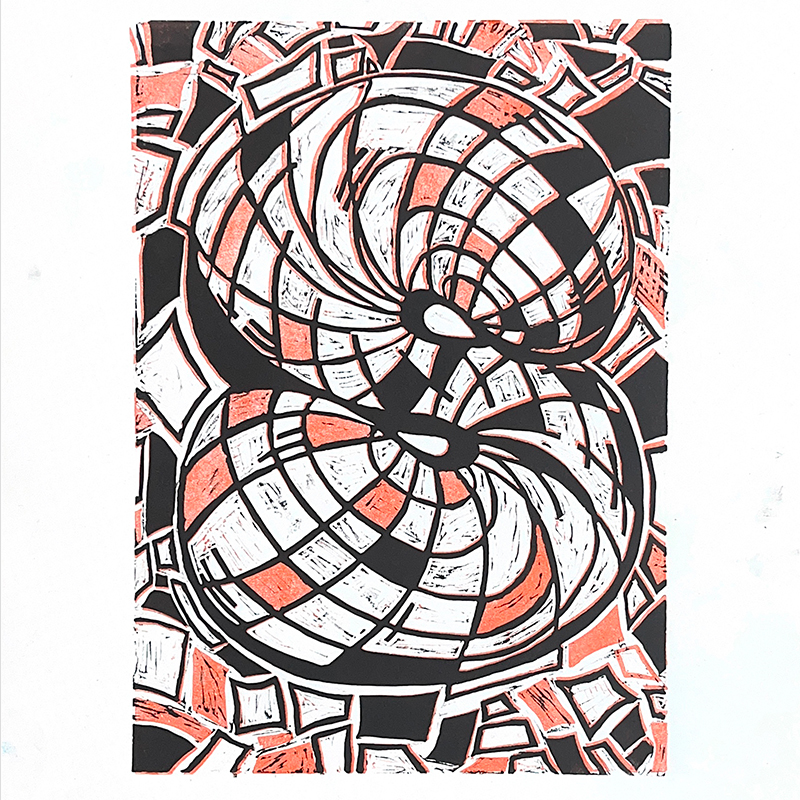
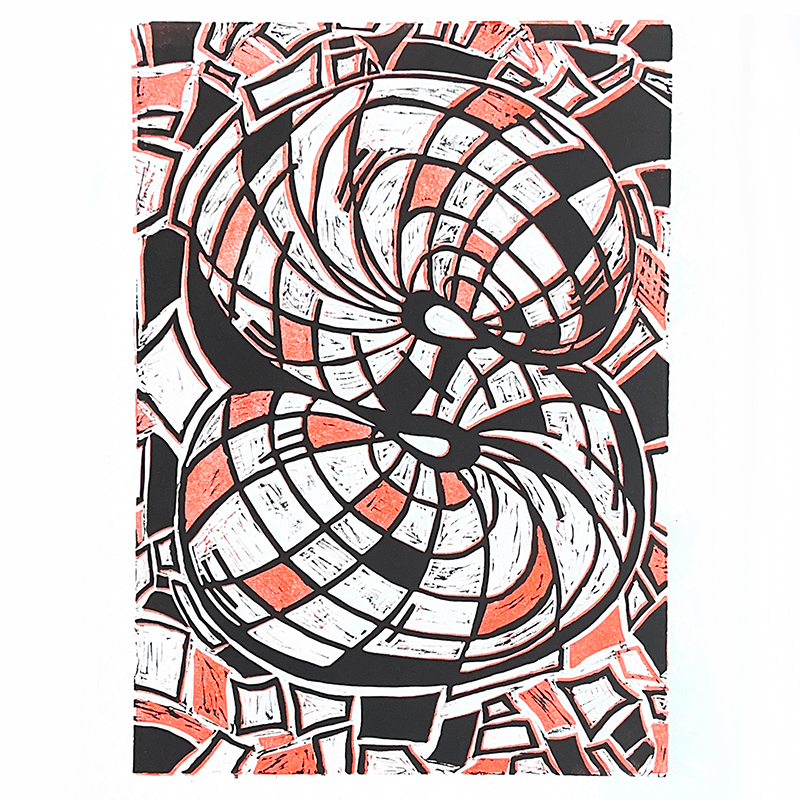
fin

Changed region(s): [[0.1562, 0.0, 0.8438, 0.9688]]

diff --git a/tabascroc.html b/tabascroc.html
@@ -42,28 +42,30 @@
     
     <div class="infos-projet">
         <p>
-            Projet photographique : reproduction de portraits du photographe britannique Platon.
+            Projet d’identité visuelle / packaging : réalisation d’une édition limitée - pack de 3 nouvelles sauces tabasco.
         <br>
-             Photos prises à l’aide d’un appareil photo numérique Nikon, sur fonds noir et blanc avec une boite lumineuse Godox 60W - lumière blanche.
+            Création d’un logotitre : jeu de mot avec le nom de la marque et analogie de forme - piment et alligator, en lien avec la Louisiane; et typographie à l’aspect «brut» et fort.
+            Sauces destinées aux amateurs de sensations forte et aux curieux ; design illustrant des saveurs originales et intenses - sur un ton décalé, provoquant et drôle.
         </p>
 
-         <p>
-            Retouches faites ultérieurement via le logiciel Camera RAW, en jouant sur les contrastes pour obtenir un résultat proche du portrait original.
-         </p>
+        <p>
+            Réalisation finale : 3 étiquettes différentes alliant humour et découverte, représentant les 3 niveaux de piquant des sauces - évolution crescendo de l’alligator + changement de couleurs significatif.
+        </p>
  
 </div>
 
     </main>
     
 <div class="grid-img">
-
-  <img src="img/PHOTOS/platon4.jpg" alt="img4">
-  <img src="img/PHOTOS/platon2.jpg" alt="img2">
-  <img src="img/PHOTOS/platon3.jpg" alt="img3">
-  <img src="img/PHOTOS/platon5.jpg" alt="img5">
-  <img src="img/PHOTOS/platon1.jpg" alt="img1">
-  <img src="img/PHOTOS/platon6.jpg" alt="img6">
-
+  
+  <img src="img/SAUCES/tabass16.jpg" alt="img16">
+  <img src="img/SAUCES/tabass15.jpg" alt="img15">
+  <img src="img/SAUCES/tabass14.jpg" alt="img14">
+  <img src="img/SAUCES/tabass7.jpg" alt="img7">
+  <img src="img/SAUCES/tabass5.jpg" alt="img5">
+  <img src="img/SAUCES/tabass6.jpg" alt="img6">
+  <img src="img/SAUCES/tabass17.jpg" alt="img17">
+  <img src="img/SAUCES/tabass18.jpg" alt="img18">
 
 
 </div>

diff --git a/àpropos.html b/àpropos.html
@@ -18,16 +18,36 @@
         </a>
     <h1>Lily Méline Vuillin</h1>
     <span>
-        <a class="propos" href="àpropos.html">à propos</a>
-        <a class="insta" href="https://www.instagram.com/lilyyy.creativity/">insta</a>
+        <a class="button" href="àpropos.html">à propos</a>
+        <a class="button" href="https://www.instagram.com/lilyyy.creativity/">insta</a>
     </span>
 </header>
 
     <main>
         <h3>Je suis...</h3>
-        <p>
-            Étudiante en 2eme année de DNMADE Graphisme -Image de communication, à l'ELMAD Auguste Renoir - Paris
-        </p>
+        <div class="grid-txt h5">
+            <h5>
+                Étudiante en 2eme année de DNMADE Graphisme -Image de communication, à l'ELMAD Auguste Renoir - Paris.
+                J’aime le design et plus particulièrement le branding et la création d’identités visuelles.
+                J’apprécie également l’évènementiel, que j’ai pu largement découvrir lors de stages dans ce secteur.
+            </h5>
+            <h5>
+                Je suis actuellement à la recherche d’un stage de 3 mois d’avril à juin, afin de valider mon diplôme.
+            </h5>
+        </div>
     </main>
+    <br>
+
+    <div>
+        <span>
+            <a class="button" href="CV.pdf">CV</a>
+            <a class="button" href="Portfolio">Portfolio</a>
+            <a class="button" href="mailto:lily.melinevuillin@gmail.com">mail</a>
+        </span>
+
+    </div>
+
+
 </body>
 </html>
+

diff --git a/style.css b/style.css
@@ -82,6 +82,16 @@ p {
     font-style: normal;
 }
 
+h5 {
+    margin: 30px clamp(12px, 2vw, 26px);
+    padding: clamp(12px, 2vw, 26px) clamp(8px, 1.5vw, 12px);
+    text-align: left;
+    font-family: "Neco-Regular", sans-serif;
+    font-size: clamp(16px, 1.5vw, 20px);
+    font-weight: 250;
+    font-style: normal;
+}
+
 /* HEADER */
 
 .header {
@@ -145,6 +155,13 @@ span {
     font-size: 20px;
 }
 
+.span3 {
+   margin: 16px;
+   text-align: right;
+   font-size: 16px; 
+
+}
+
 /* LIENS PRINCIPAUX */
 
 main a {
@@ -193,6 +210,7 @@ main a:hover span {
     border: 2px solid #000000;
     border-radius: 10px;
     transition: background 0.5s;
+    font-family: "Anybody", sans-serif;
 }
 
 .button:hover {
@@ -211,6 +229,11 @@ main a:hover span {
 .grid-txt p {
     margin: 0;
     padding: 26px 12px 12px 0;
+}
+
+.grid-txt h5 {
+    margin: 16px;
+    padding: 0;
 }
 
 /* PAGES PROJETS */
@@ -312,6 +335,7 @@ main a:hover span {
     }
 
     .grid-txt,
+    .grid-txt h5,
     .grid-img {
         grid-template-columns: 1fr;
     }

diff --git a/Slettrine.html b/Slettrine.html
@@ -58,14 +58,20 @@
     
 <div class="grid-img">
 
-  <img src="img/LETTRINE/S1.jpg" alt="img1">
-  <img src="img/LETTRINE/S2.jpg" alt="img2">
-  <img src="img/LETTRINE/S3.jpg" alt="img3">
-  <img src="img/LETTRINE/S4.jpg" alt="img4">
-  <img src="img/LETTRINE/S5.jpg" alt="img5">
-  <img src="img/LETTRINE/S6.jpg" alt="img6">
-  <img src="img/LETTRINE/S9.jpg" alt="img7">
+
   <img src="img/LETTRINE/S10.jpg" alt="img8">
+  <img src="img/LETTRINE/S2.jpg" alt="img2"> 
+  <img src="img/LETTRINE/S4.jpg" alt="img4"> 
+  <img src="img/LETTRINE/S6.jpg" alt="img6"> 
+
+  <img src="img/LETTRINE/S5.jpg" alt="img5">
+  <img src="img/LETTRINE/S3.jpg" alt="img3">
+  <img src="img/LETTRINE/S1.jpg" alt="img1">
+  <img src="img/LETTRINE/S9.jpg" alt="img7">
+
+
+
+
 
 </div>
    
